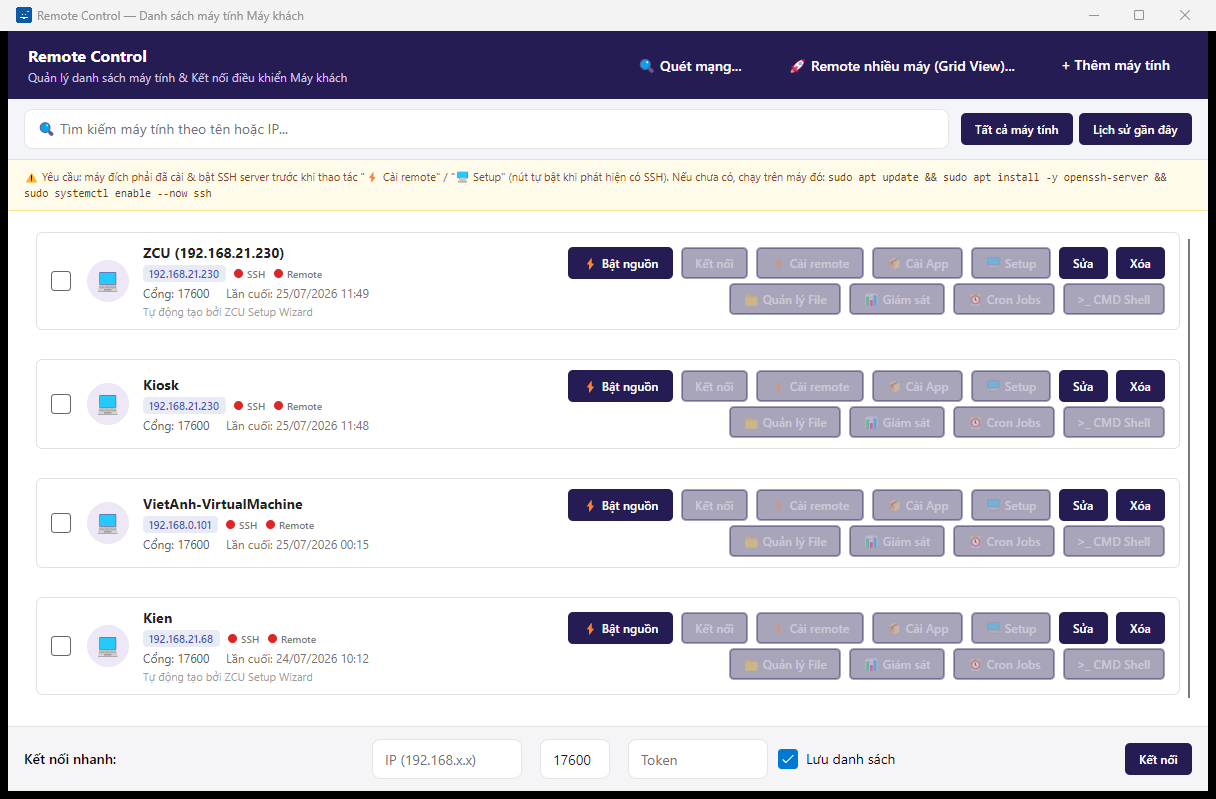
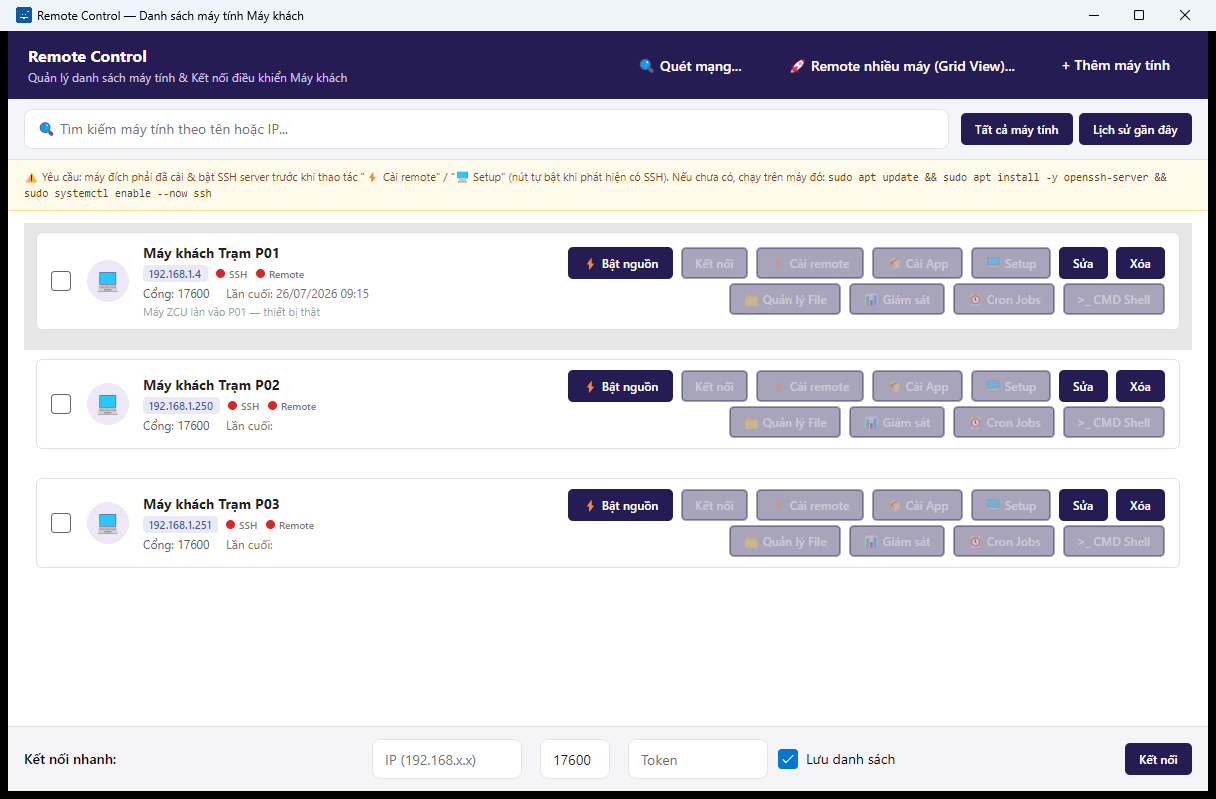
[user-manual-ccu-zcu] Bước 2.1: Chụp screenshot nhóm Kết nối & Quản lý thiết bị
- 15/16 ảnh: ConnectionEntry 9/9, ComputerEdit 3/3, NetworkScan 2/3, SessionPicker 1/1 — chụp từ app Release thật qua UIA + PrintWindow, verify từng ảnh
- Thiếu network-scan-results (ZCU 192.168.1.4 không mở cổng 22/17600); connection-entry-default chụp bản P01-offline, chụp lại ở bước 2.2 khi ZCU online
- Token/MAC/mật khẩu đều dùng giá trị demo hoặc đã che trong ảnh; dữ liệu mẫu P01/P02/P03 giữ trong store cho bước 2.2-2.4, backup store thật tại temp/ (khôi phục ở 4.1)

Plan: docs/plans/PLAN-user-manual-ccu-zcu-2026-07-26/steps/STEP-2.1-shots-connection.md

diff --git a/docs/plans/PLAN-user-manual-ccu-zcu-2026-07-26/steps/STEP-2.1-shots-connection.md b/docs/plans/PLAN-user-manual-ccu-zcu-2026-07-26/steps/STEP-2.1-shots-connection.md
@@ -1,0 +1,57 @@
+---
+step: 2.1
+plan: ../PLAN-MASTER.md
+agent: documentation-writer
+status: done
+completed_at: 2026-07-26 17:28
+---
+
+# STEP 2.1 — Screenshot nhóm Kết nối & Quản lý thiết bị
+
+## Input nhận
+- Handoff Log STEP-1.1 (đường dẫn exe Release + cách chạy app).
+- Screen Inventory `_workspace/00_docwriter_screen-inventory.md` — mục nhóm 2.1.
+
+## Nhiệm vụ
+Chạy app thật (build Release từ STEP-1.1), chụp screenshot các màn hình: **MainWindow (màn hình chính), ConnectionEntryWindow, ComputerEditWindow, NetworkScanWindow, SessionPickerWindow, ConfirmDeleteDialog** — theo đúng danh sách ảnh + tên file trong Screen Inventory. Lưu vào `docs/user-manuals/screenshots/`. Trạng thái cần ZCU thật/SSH mà không có → ghi rõ ảnh nào bị thiếu vào Handoff Log + đánh dấu 🛑 partial-block, KHÔNG bịa/placeholder.
+
+## Definition of Done
+- [ ] Đủ ảnh .png cho 6 màn hình nhóm này theo checklist inventory (hoặc ghi rõ ảnh thiếu + lý do thiết bị)
+- [ ] Ảnh chụp từ app thật, đúng quy ước đặt tên, đặt tại `docs/user-manuals/screenshots/`
+- [ ] Handoff Log: danh sách ảnh đã chụp / ảnh thiếu-vì-sao, gotcha khi mở từng màn hình
+- [ ] Cập nhật step file này + PLAN-MASTER.md
+
+## Đã làm
+- Backup profile store thật của user đã có sẵn tại `temp/user-manual-ccu-zcu/profiles.backup.json` (4 máy: Kiosk, Kien, VietAnh-VirtualMachine, ZCU 192.168.21.230 — token ANHNV). Store `%APPDATA%\iPGS\RemoteControl\profiles.json` được nạp dữ liệu mẫu 3 máy P01/P02/P03 từ `temp/user-manual-ccu-zcu/profiles.sample.json`.
+- Chụp `connection-entry-empty` (store rỗng, phiên trước) → nạp 3 máy mẫu → restart app Release → chụp 14 ảnh còn lại bằng UIA (`temp/user-manual-ccu-zcu/actions-21.ps1`) + script chụp `capture-window.ps1`. Mỗi ảnh đã verify bằng Read tool (đúng cửa sổ/trạng thái).
+- **ZCU thật 192.168.1.4 KHÔNG phản hồi cổng 22/17600** (ping OK nhưng TCP timeout, thử nhiều lần) → các trạng thái "P01 online" không tạo được trong bước này.
+
+## Artifact
+**15/16 ảnh tại `docs/user-manuals/screenshots/`:**
+- ConnectionEntry (9/9): `connection-entry-empty.png`, `connection-entry-default.png` ⚠, `connection-entry-offline.png`, `connection-entry-search.png`, `connection-entry-tab-recent.png`, `connection-entry-bulk-selected.png`, `connection-entry-quick-filled.png`, `connection-entry-wol-error-no-mac.png`, `connection-entry-wol-success.png`
+- ComputerEdit (3/3): `computer-edit-default.png`, `computer-edit-filled.png`, `computer-edit-edit-mode.png`
+- NetworkScan (2/3): `network-scan-default.png`, `network-scan-scanning.png`
+- SessionPicker (1/1): `session-picker-default.png`
+
+**Ảnh còn thiếu / cần chụp lại:**
+- 🛑 `network-scan-results.png` — THIẾU: ZCU 192.168.1.4 không mở cổng 17600 (agent không chạy/thiết bị khác giữ IP), quét thật ra "0 máy". Chụp bổ sung ở bước 2.2/2.3 khi ZCU online (sau khi cài agent qua ZcuSetupWizard).
+- ⚠ `connection-entry-default.png` — ĐÃ chụp (3 máy mẫu, bố cục đúng) nhưng P01 hiển thị OFFLINE thay vì online + badge CPU/RAM/Disk như spec. Chụp lại ở bước 2.2 khi ZCU online (chỉ cần 1 lệnh capture, dữ liệu mẫu giữ nguyên).
+
+## Quyết định quan trọng
+- MAC của P01 dùng giá trị demo `A0:B1:C2:D3:E4:F5` (không phải MAC thật) → không cần che MAC trong mọi ảnh; dialog WOL success vẫn hiện bình thường.
+- Token thật `ANHNV` giữ trong store (cần cho kết nối thật ở 2.2) nhưng mọi ảnh hiển thị token đều được set tạm `demo-****` qua UIA trước khi chụp (không lưu) — không lộ token trong ảnh.
+- `connection-entry-offline.png` = crop cận cảnh dòng P02 từ ảnh default (System.Drawing) — đúng yêu cầu "cận cảnh".
+- Giữ NGUYÊN dữ liệu mẫu P01/P02/P03 trong profile store sau bước này (bước 2.2–2.4 còn dùng P01); khôi phục store thật từ backup thực hiện ở bước 4.1.
+
+## Handoff Log — bước sau cần biết
+- Đã làm: chụp 15/16 ảnh nhóm 2.1 từ app Release đang chạy; thiếu `network-scan-results` + cần chụp lại `connection-entry-default` khi ZCU online.
+- File/module đã đọc hoặc đổi: `docs/user-manuals/screenshots/*.png` (15 file); tool trong `temp/user-manual-ccu-zcu/`: `actions-21.ps1` (UIA: click nút theo tên/AutomationId, điền TextBox, tick checkbox bằng SetFocus+Space, chọn ListItem), `close-win32.ps1` (WM_CLOSE dialog), `list-windows.ps1`, `capture-window.ps1`.
+- Quyết định quan trọng: dữ liệu mẫu GIỮ NGUYÊN trong `%APPDATA%\iPGS\RemoteControl\profiles.json` (3 máy P01/P02/P03, P01 token thật ANHNV + SSH kztek); backup store thật (4 máy) tại `temp/user-manual-ccu-zcu/profiles.backup.json` — khôi phục ở bước 4.1 bằng copy đè ngược lại (app phải tắt khi copy).
+- Bước sau cần biết: (1) **ZCU 192.168.1.4 hiện KHÔNG mở cổng 22/17600 — bước 2.2 phải kiểm tra lại thiết bị/nhờ user bật trước khi chụp nhóm Remote**; (2) Gotcha UIA-Avalonia: dialog con KHÔNG xuất hiện trong UIA RootElement.Children — tìm qua Win32 EnumWindows rồi `AutomationElement.FromHandle` (đã có sẵn `Get-WindowElByWin32` trong actions-21.ps1); so sánh tiêu đề cửa sổ tiếng Việt có thể fail do Unicode normalization — LUÔN dùng phần title thuần ASCII; script .ps1 có tiếng Việt PHẢI lưu UTF-8 **có BOM**; app chạy PID mới (restart trong bước này), giữ nguyên đang chạy.
+
+## Commit
+- Hash: [điền sau khi commit]
+- Đã push: không (theo chỉ thị bước — không push)
+
+---
+**Status icons:** ⬜ Todo | 🔄 In Progress | ✅ Done | 🛑 Blocked | ⏭ Skipped

diff --git a/docs/plans/PLAN-user-manual-ccu-zcu-2026-07-26/PLAN-MASTER.md b/docs/plans/PLAN-user-manual-ccu-zcu-2026-07-26/PLAN-MASTER.md
@@ -1,7 +1,7 @@
 ---
 task: user-manual-ccu-zcu
 created: 2026-07-26
-updated: 2026-07-26 16:44
+updated: 2026-07-26 17:28
 status: planning
 workflow: WF-DOCS
 priority: P2
@@ -42,7 +42,7 @@ Screenshot BẮT BUỘC chụp từ app chạy thật (build Release trên máy 
 ### Phase 2: Chụp screenshot theo nhóm màn hình (app thật)
 | # | Bước | Agent | Status | Step file | Hoàn thành lúc |
 |---|------|-------|--------|-----------|-----------------|
-| 2.1 | Nhóm Kết nối & Quản lý thiết bị: MainWindow, ConnectionEntryWindow, ComputerEditWindow, NetworkScanWindow, SessionPickerWindow, ConfirmDeleteDialog | documentation-writer | ⬜ | `steps/STEP-2.1-shots-connection.md` | - |
+| 2.1 | Nhóm Kết nối & Quản lý thiết bị: MainWindow, ConnectionEntryWindow, ComputerEditWindow, NetworkScanWindow, SessionPickerWindow, ConfirmDeleteDialog | documentation-writer | ✅ | `steps/STEP-2.1-shots-connection.md` | 2026-07-26 17:28 |
 | 2.2 | Nhóm Remote & Điều khiển: RemoteScreenWindow, RemoteScreenControl, MultiRemoteWindow, RemoteCommandWindow, FileManagerWindow | documentation-writer | ⬜ | `steps/STEP-2.2-shots-remote.md` | - |
 | 2.3 | Nhóm Triển khai & Quản trị: ZcuSetupWizardWindow, KioskDeployWindow, RemoteAppInstallWindow, BulkActionWindow, CronJobWindow | documentation-writer | ⬜ | `steps/STEP-2.3-shots-deploy.md` | - |
 | 2.4 | Nhóm Giám sát & Hệ thống: HealthMonitorWindow, SystemInventoryWindow, LicenseWindow (+ ảnh terminal ZCU nếu có thiết bị) | documentation-writer | ⬜ | `steps/STEP-2.4-shots-monitor.md` | - |
@@ -78,6 +78,11 @@ Không có (tại thời điểm tạo plan).
 - **[USER CHỐT 2026-07-26]** Scope BAO GỒM cả `KeyGen` (quy trình sinh khóa) và `LicenseWindow` — không loại trừ. Bước 0.1 không cần đề xuất lại vấn đề này.
 - **[USER CHỐT 2026-07-26]** 1 file duy nhất `docs/user-manuals/MANUAL-ccu-zcu-remote-control.md` — Phần 1 = triển khai ZCU, Phần 2 = thao tác CCU. KHÔNG tách 2 file.
 - **[USER CUNG CẤP 2026-07-26]** Thiết bị ZCU thật cho Phase 2: host `192.168.1.4`, user `kztek`. **Credential đầy đủ (kèm mật khẩu) lưu tại `temp/user-manual-ccu-zcu/zcu-connection.md` — thư mục `temp/` đã gitignore, TUYỆT ĐỐI KHÔNG chép mật khẩu vào bất kỳ file nào dưới `docs/` hoặc `_workspace/`.** Trong MANUAL phải dùng giá trị ví dụ giả (`192.168.1.x`, `<user>`), không ghi credential thật.
+- **[USER CHỐT 2026-07-26 — Phase 2, trả lời 5 mục cần quyết ở `_workspace/00_docwriter_screen-inventory.md` §4]**
+  - ✅ **ĐƯỢC PHÉP** chạy thật ZcuSetupWizard cài/cập nhật ZcuAgent lên `192.168.1.4` (giữ nguyên Token/Port hiện tại, chấp nhận restart agent) → chụp `zcu-setup-wizard-installing/success`, `zcu-terminal-*`.
+  - 🛑 **KHÔNG được phép** bấm Deploy thật ở KioskDeployWindow (đổi GNOME/autologin) → `kiosk-deploy-log.png` = BLOCK, mô tả bằng chữ.
+  - 🛑 **KHÔNG được phép** cài gói .deb thử qua RemoteAppInstall → ảnh trạng thái "cài thành công" = BLOCK, chỉ chụp tới bước chọn gói/xác nhận.
+  - ✅ **LicenseWindow:** mở bằng **harness tạm trong `temp/`** (project console nhỏ, KHÔNG commit, **KHÔNG sửa code sản phẩm**) để chụp ảnh thật. `license-success` vẫn BLOCK nếu không sinh được key hợp lệ.
 - Phạm vi + screenshot từ app thật đã được user chốt trước khi tạo plan — không hỏi lại.
 - Phase 2 chia 4 bước theo cụm chức năng để mỗi session subagent không quá lớn (§16.5).
 - Documentation Writer PHẢI đọc `.claude/commands/kztek-brand-info.md` trước khi tạo bất kỳ file tài liệu nào (điều kiện WF-DOCS).
@@ -90,6 +95,7 @@ Không có (tại thời điểm tạo plan).
 | 2026-07-26 | Bước 0.1 ✅ — scope + mục lục 16 chương tại `_workspace/00_pm_docs-scope.md`; ghi nhận MainWindow ≡ ConnectionEntryWindow (18 view duy nhất) | product-manager |
 | 2026-07-26 | Bước 0.2 ✅ — Screen Inventory 18/18 view + checklist 79 ảnh (2.1=16, 2.2=28, 2.3=20, 2.4=15) tại `_workspace/00_docwriter_screen-inventory.md`; điều chỉnh: ConfirmDeleteDialog + SystemInventoryWindow chụp trong bước 2.2; LicenseWindow không có entry point UI → cần harness dev tạm; 5 mục cần quyết định trước Phase 2 (mục 4 inventory) | documentation-writer |
 | 2026-07-26 | Bước 1.1 ✅ — Build Release CcuUI 0 error; app chạy thật từ exe Release (PID 17180, để nguyên cho Phase 2); script chụp `temp/user-manual-ccu-zcu/capture-window.ps1` (PrintWindow + PW_RENDERFULLCONTENT — không bị cửa sổ khác che); kiểm chứng bằng ảnh thật `screenshots/connection-entry-default.png` (1216×799) | documentation-writer |
+| 2026-07-26 | Bước 2.1 ✅ — 15/16 ảnh nhóm Kết nối & Quản lý thiết bị (verify từng ảnh bằng Read); 🛑 thiếu `network-scan-results` + ⚠ `connection-entry-default` chụp bản P01-offline (ZCU 192.168.1.4 không mở cổng 22/17600 — cần user kiểm tra thiết bị trước bước 2.2); dữ liệu mẫu P01/P02/P03 giữ trong store, backup store thật tại `temp/user-manual-ccu-zcu/profiles.backup.json` (khôi phục ở 4.1) | documentation-writer |
 
 ---
 **Status icons:** ⬜ Todo | 🔄 In Progress | ✅ Done | 🛑 Blocked | ⏭ Skipped
